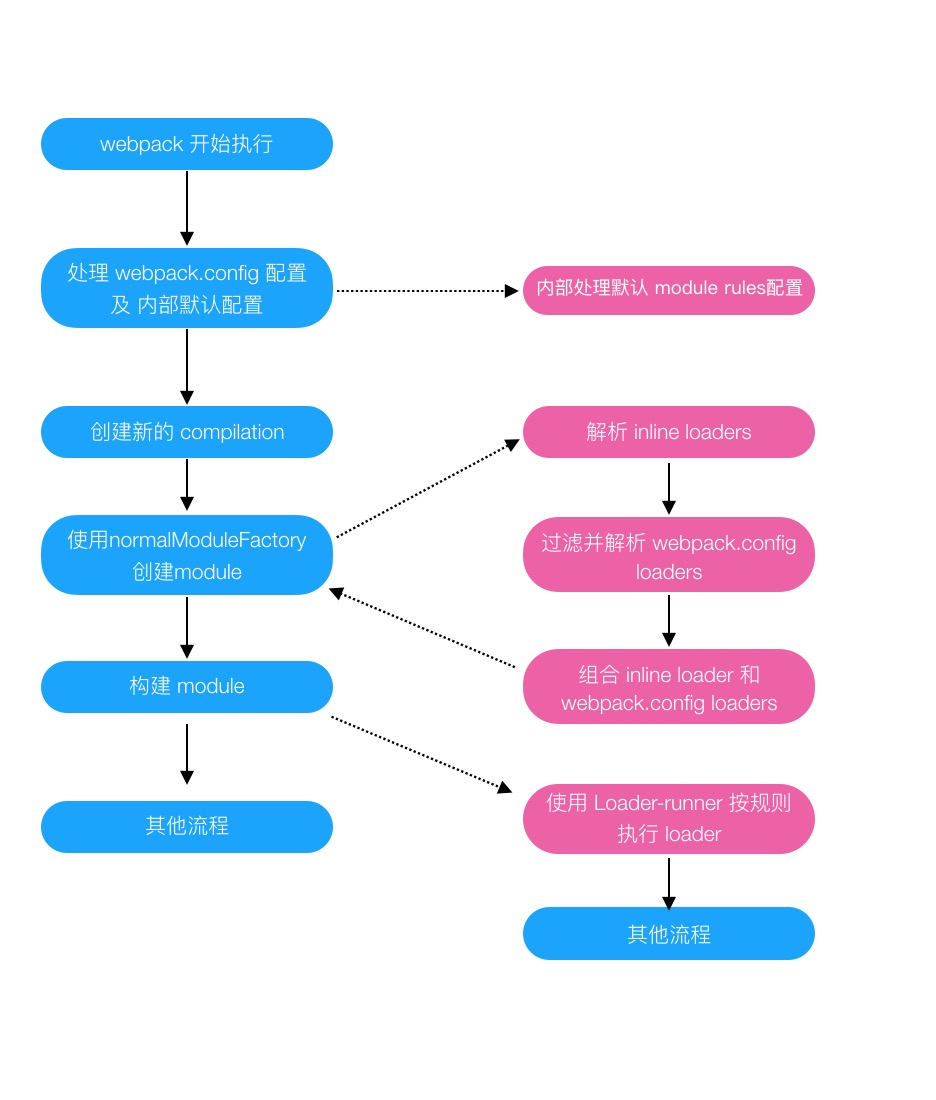
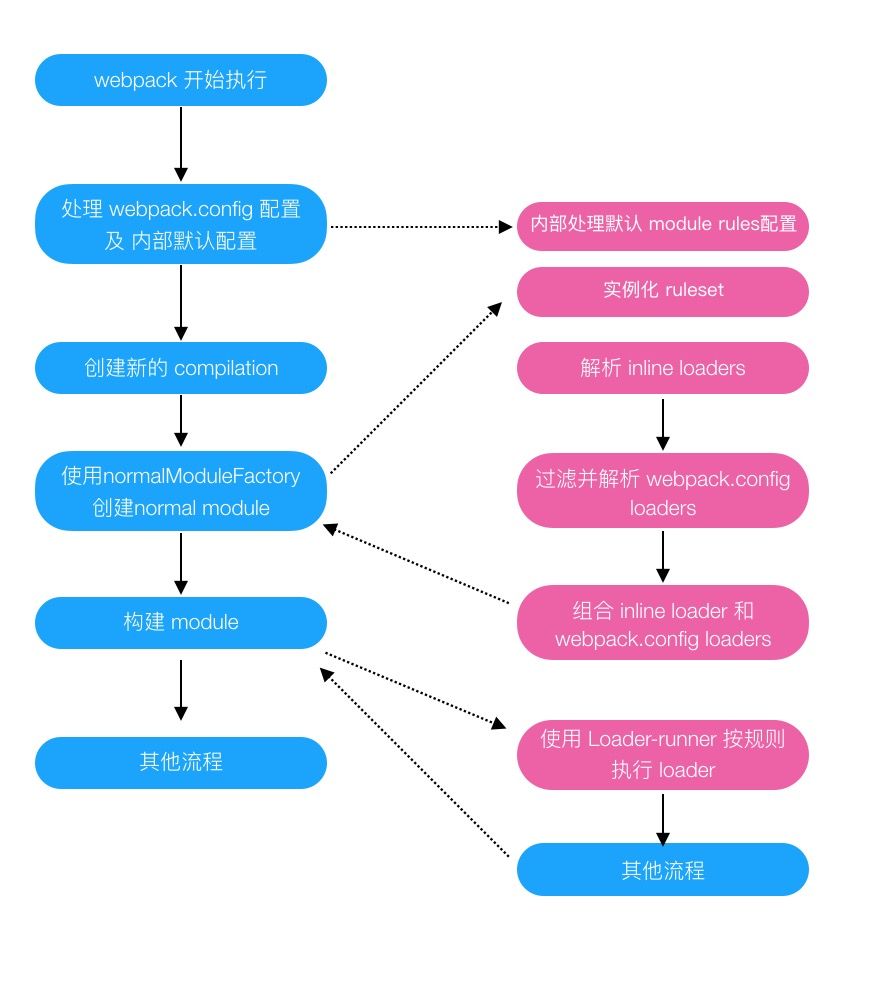
update

diff --git a/Webpack/loader.md b/Webpack/loader.md
@@ -8,7 +8,6 @@
 
 ## Webpack loader 详解
 
-
 ### loader 的配置
 
 Webpack 对于一个 module 所使用的 loader 对开发者提供了2种使用方式：
@@ -57,12 +56,12 @@ import a from 'raw-loader!../../utils.js'
 
 ![webpack loader](../images/webpack/Loader.jpeg)
 
-可以看到在一个 module 构建过程中，首先根据 module 的依赖类型(例如 normalModuleFactory)调用对应的构造函数来创建对应的模块。在创建模块的过程中，会根据开发者的 webpack.config 当中的 rules 以及 webpack 内置的 rules 规则实例化 ruleset 匹配实例，这个 ruleset 实例在 loader 的匹配过滤过程中非常的关键，具体的源码解析可参见[Webpack Loader Ruleset 匹配规则解析](https://github.com/CommanderXL/Biu-blog/issues/30)。此外还会注册2个钩子函数:
+在一个 module 构建过程中，首先根据 module 的依赖类型(例如 NormalModuleFactory)调用对应的构造函数来创建对应的模块。在创建模块的过程中(`new NormalModuleFactory()`)，会根据开发者的 webpack.config 当中的 rules 以及 webpack 内置的 rules 规则实例化 ruleset 匹配实例，这个 ruleset 实例在 loader 的匹配过滤过程中非常的关键，具体的源码解析可参见[Webpack Loader Ruleset 匹配规则解析](https://github.com/CommanderXL/Biu-blog/issues/30)。实例化 ruleset 后，还会注册2个钩子函数:
 
 ```javascript
 class NormalModuleFactory {
   ...
-  // 内部嵌套 resolver 的钩子，完成相关的解析后，创建这个 module
+  // 内部嵌套 resolver 的钩子，完成相关的解析后，创建这个 normalModule
   this.hooks.factory.tap('NormalModuleFactory', () => (result, callback) => { ... })
 
   // 在 hooks.factory 的钩子内部进行调用，实际的作用为解析构建一共 module 所需要的 loaders 及这个 module 的相关构建信息(例如获取 module 的 packge.json等)
@@ -71,11 +70,7 @@ class NormalModuleFactory {
 }
 ```
 
-
-...
-
-
-接下来就调用 resolver 钩子(`hooks.resolver`)进入到了 resolve 的阶段，在真正开始 resolve loader 之前，首先就是需要匹配过滤找到构建这个 module 所需要使用的所有的 loaders。首先进行的是对于 inline loaders 的处理：
+当 NormalModuleFactory 实例化完成后，并在 compilation 内部调用这个实例的 create 方法开始真实开始创建这个 normalModule。首先调用`hooks.factory`获取对应的钩子函数，接下来就调用 resolver 钩子(`hooks.resolver`)进入到了 resolve 的阶段，在真正开始 resolve loader 之前，首先就是需要匹配过滤找到构建这个 module 所需要使用的所有的 loaders。首先进行的是对于 inline loaders 的处理：
 
 ```javascript
 // NormalModuleFactory.js
